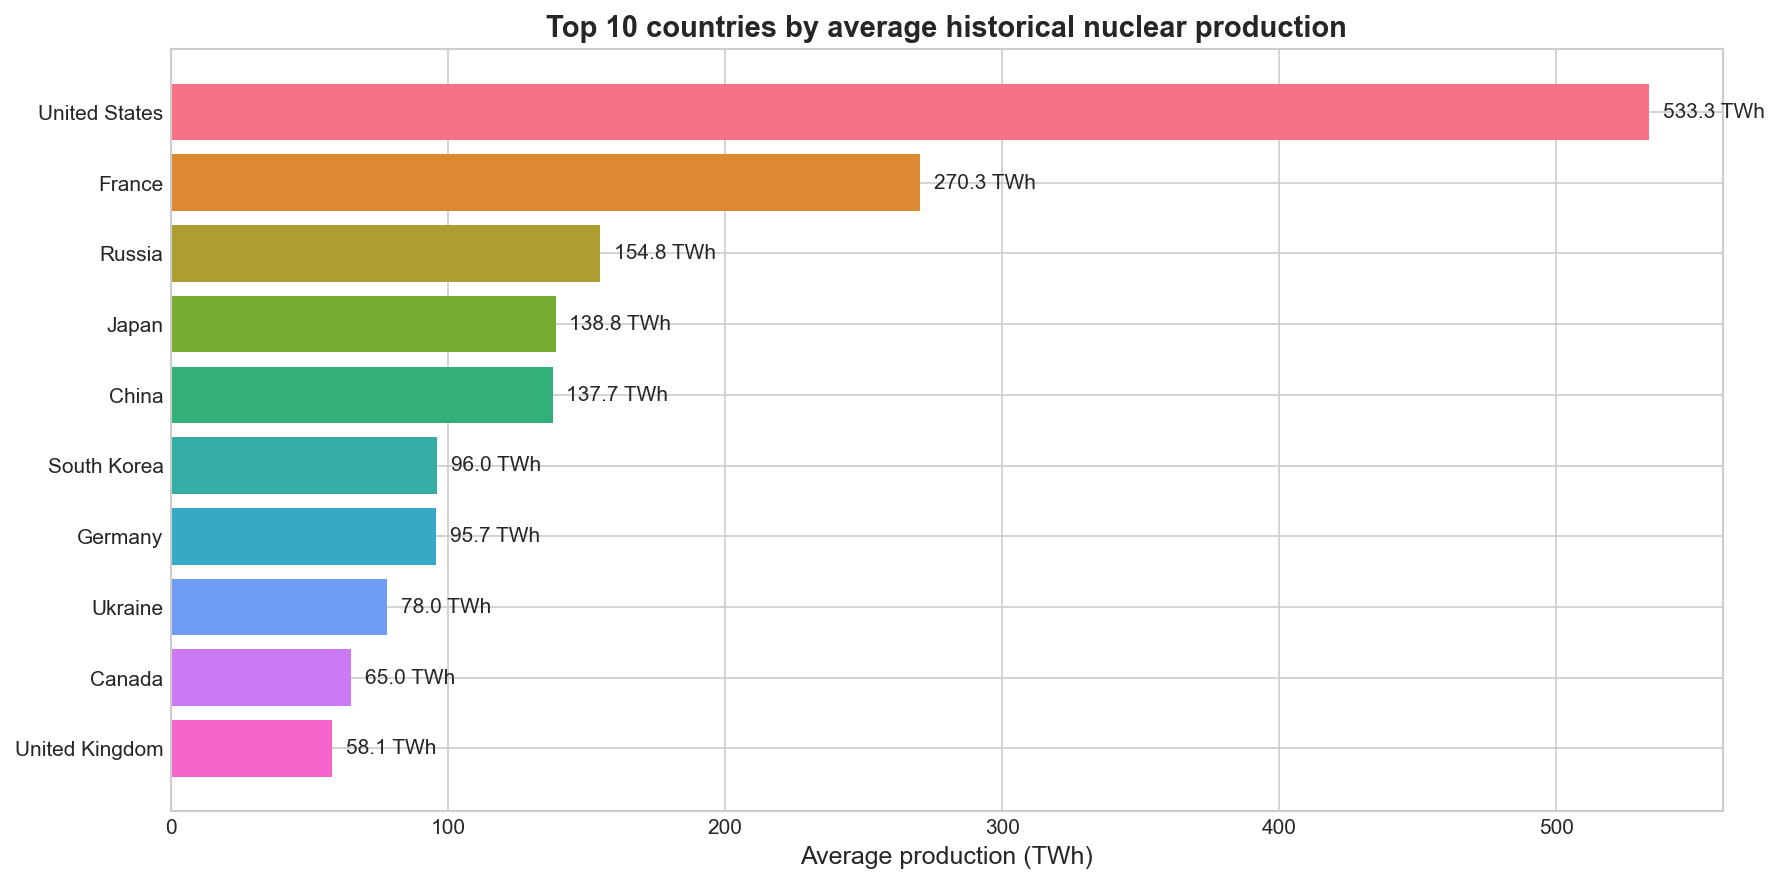
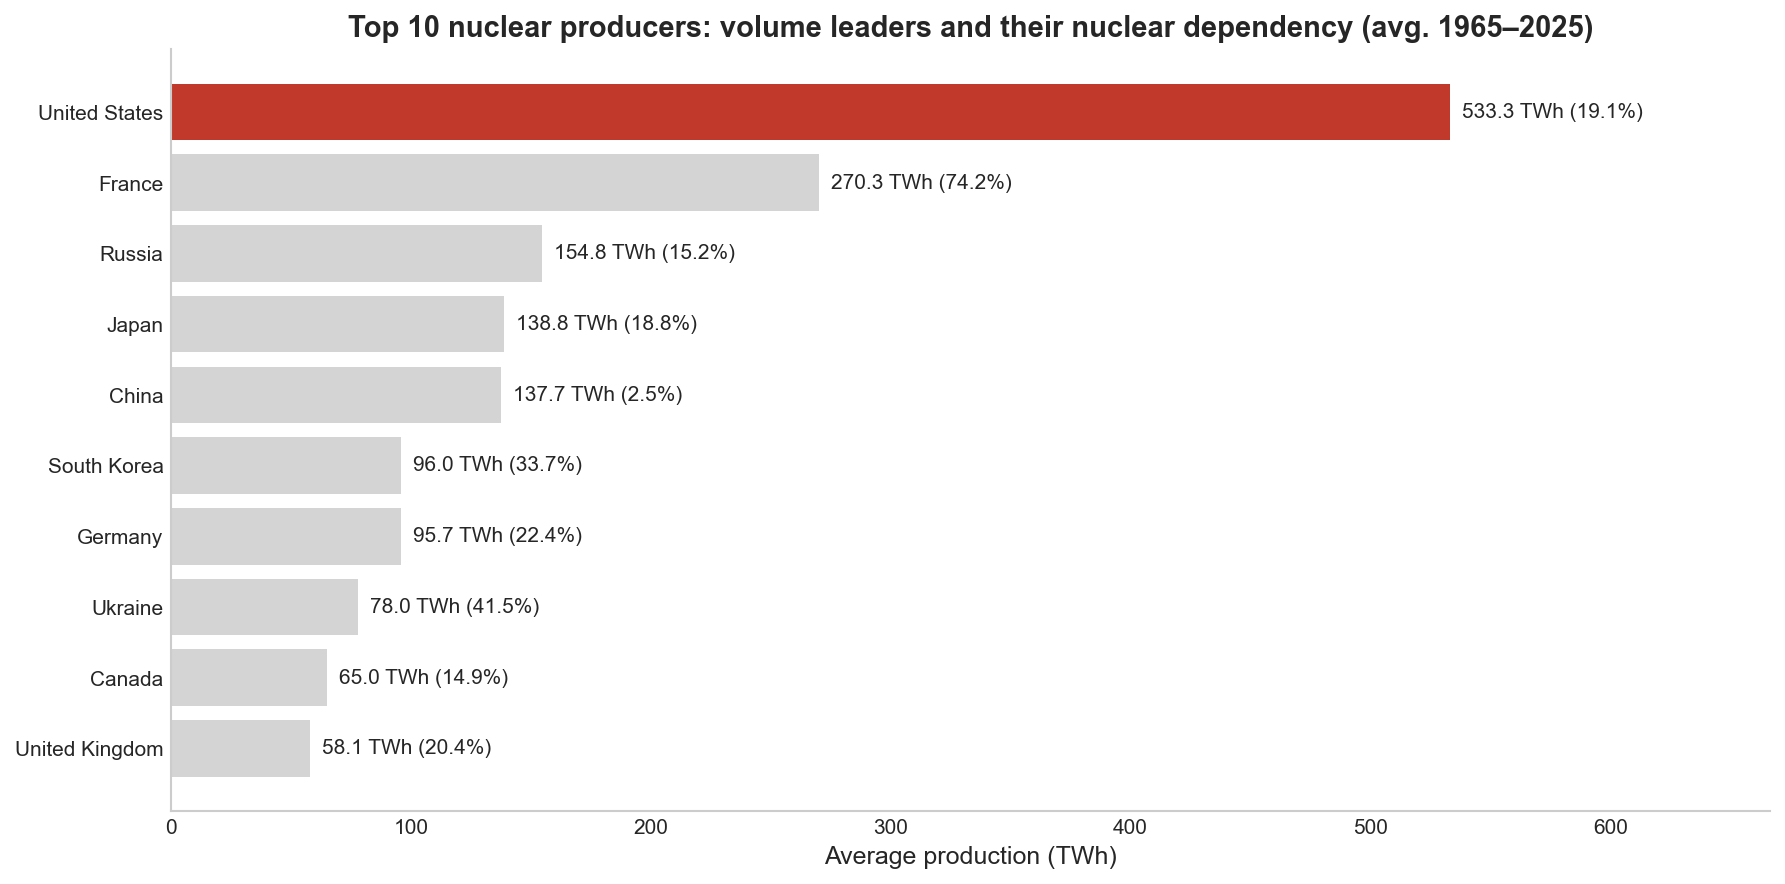
refactor: top10 chart - professional styling, nuclear share context, primary sources in README

diff --git a/README.md b/README.md
@@ -14,6 +14,23 @@ if the Montalto di Castro plant — 80% complete in 1988 — had been commission
 
 ---
 
+## Methodology — Counterfactual Analysis
+
+The realistic scenario is built on documented historical data:
+
+- **Montalto di Castro** (2 x 982 MWe BWR): 80% complete in February 1988, halted by the referendum.
+  Source: Sources: World Nuclear Association — Nuclear Power in Italy (https://world-nuclear.org/information-library/country-profiles/countries-g-n/italy); ENEA — Il nucleare in Italia: storia e prospettive (2011); IAEA PRIS — historical load factor data (https://pris.iaea.org)
+- **Load factor**: 75% (conservative European average for the period)
+- **Trino Vercellese** (260 MWe): assumed end of operational life ~2000
+- **Post-Fukushima** (2011+): 15% reduction applied for extraordinary maintenance
+
+The scenario places Italy in the **lower range of European nuclear producers** — consistent with Finland, which had a similar installed capacity at the time. It is a conservative estimate, not an optimistic one.
+
+CO2 displacement assumes gas substitution at 490 gCO2/kWh vs nuclear at 12 gCO2/kWh
+(source: IPCC lifecycle emissions estimates).
+
+---
+
 ## Key Findings
 
 - Only **36 countries** have ever produced nuclear energy
@@ -24,23 +41,6 @@ if the Montalto di Castro plant — 80% complete in 1988 — had been commission
 - Completing only Montalto di Castro (80% built in 1988, never opened) would have saved an estimated **642 TWh of gas** and avoided **307 Mt of CO2** between 1988 and 2024
 - Even completing only Montalto di Castro, Italy would have reached a **maximum of 9.3%** nuclear share in 1991 — well below the European average of ~40%.
   By 2024 it would have declined to ~6%, confirming nuclear was always a marginal support source in the Italian energy mix, not a dominant one
-
----
-
-## Methodology — Counterfactual Analysis
-
-The realistic scenario is built on documented historical data:
-
-- **Montalto di Castro** (2 x 982 MWe BWR): 80% complete in February 1988, halted by the referendum.
-  Source: Wikipedia, World Nuclear Association
-- **Load factor**: 75% (conservative European average for the period)
-- **Trino Vercellese** (260 MWe): assumed end of operational life ~2000
-- **Post-Fukushima** (2011+): 15% reduction applied for extraordinary maintenance
-
-The scenario places Italy in the **lower range of European nuclear producers** — consistent with Finland, which had a similar installed capacity at the time. It is a conservative estimate, not an optimistic one.
-
-CO2 displacement assumes gas substitution at 490 gCO2/kWh vs nuclear at 12 gCO2/kWh
-(source: IPCC lifecycle emissions estimates).
 
 ---
 
@@ -120,7 +120,9 @@ nuclear-data-analysis/
 - [Our World in Data — Energy](https://ourworldindata.org/energy) (Energy Institute / Ember)
 - Energy Institute Statistical Review of World Energy 2025
 - World Nuclear Association — Italy country profile
-- Wikipedia — Montalto di Castro Nuclear Power Station
+- - World Nuclear Association — Nuclear Power in Italy (https://world-nuclear.org/information-library/country-profiles/countries-g-n/italy)
+- ENEA — Il nucleare in Italia: storia e prospettive (2011)
+- IAEA PRIS — Power Reactor Information System (https://pris.iaea.org)
 
 ## Author
 Giuseppe Vigliotti — [LinkedIn](https://linkedin.com/in/giuseppe-vigliotti)